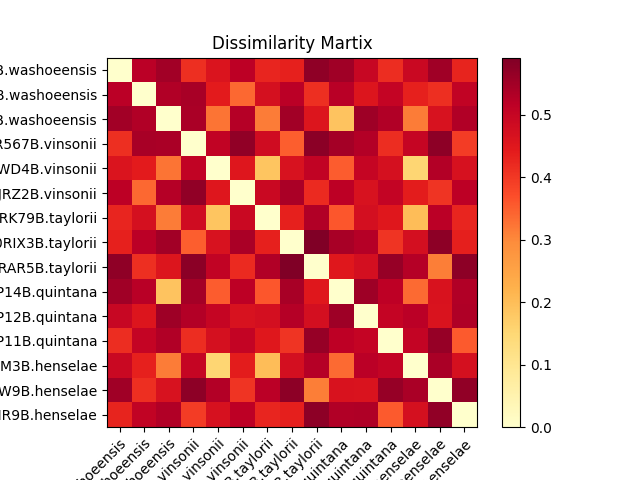
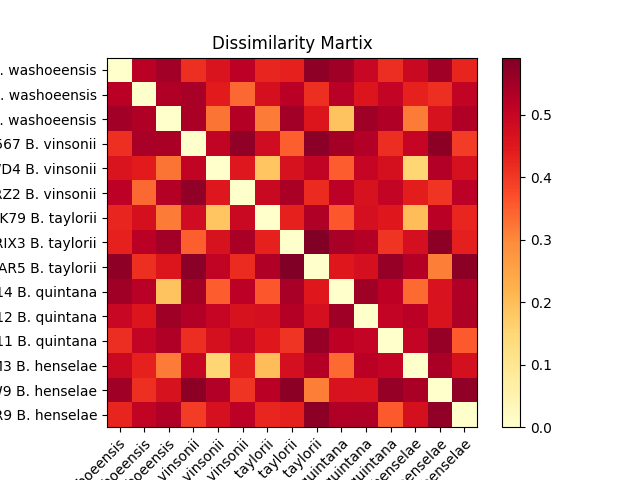
Managed import issues, annonated step4

diff --git a/main_step4.py b/main_step4.py
@@ -1,5 +1,3 @@
-import sys
-
 from Project_Library import msa   # msa.pyc file was compiled with python3.10, so use this version to run the code
 from Project_Library import basic_seq_analysis as SeqAnalysis
 from Project_Library import embl_analysis as EMBL
@@ -11,69 +9,94 @@ from matplotlib import pyplot as plt
 from Bio import Phylo
 from io import StringIO
 
-path_to_prots = '../Output_Files/selected_proteins.fasta'
-path_to_msa_result = '../Output_Files/aligned_selected_proteins.fasta'
-path_to_score_matrix = '../Files_for_Project/blosum62.mat'
-path_to_alignment_score_plot = '../Output_Files/Alignement_score_plot_by_position.png'
-path_to_unordered_heatmap = '../Output_Files/Heatmap_for_unordered_sequences.png'
-path_to_tree = '../Output_Files/Tree.png'
-path_to_ordered_heatmap = '../Output_Files/Heatmap_for_ordered_sequences.png'
-path_to_embl_summary = "../Output_Files/Bartonella_embl_summary_usingLISTOFLISTS.txt"
+
+# path_to_score_matrix : str ; path to score (aka substitution) matrix
+path_to_score_matrix = './Files_for_Project/blosum62.mat'
+# path_to_embl_summary : str ; path to an embl summary (generated in step 2)
+path_to_embl_summary = "./Output_Files/Bartonella_embl_summary_usingLISTOFLISTS.txt"
+
+# path_to_prots : str ; path to fasta file with protein sequences to be analyzed
+path_to_prots = './Output_Files/selected_proteins.fasta'
+# path_to_msa_result : str ; path to msa result (to be saved or used directly)
+path_to_msa_result = './Output_Files/aligned_selected_proteins.fasta'
+
+# path_to_alignment_score_plot : str ; path to a plot of MSA score by position to be saved
+path_to_alignment_score_plot = './Output_Files/Alignement_score_plot_by_position.png'
+# path_to_unordered_heatmap : str ; path to a heatmap of unordered sequences to be saved
+path_to_unordered_heatmap = './Output_Files/Heatmap_for_unordered_sequences.png'
+# path_to_ordered_heatmap : str ; path to a heatmap of ordered sequences to be saved
+path_to_ordered_heatmap = './Output_Files/Heatmap_for_ordered_sequences.png'
+# path_to_tree : str ; path to a tree to be saved
+path_to_tree = './Output_Files/Tree.png'
+
 # Use once to save the alignment result, otherwise you're gonna wait for eternity...
 #MSA.write_msa_as_fasta(path_to_prots,path_to_score_matrix, path_to_msa_result)
 
+# MSA_dict : Dict[str:str] ;  dictionnary of MSA result {sequence ID : aligned sequence}
 MSA_dict = EMBL.read_fasta(path_to_msa_result)
+# Score_dict : Dict{(str,str):float} ; dictionary {(aminoacid1, aminoacid2):score}
 Score_dict = MSA.read_score_matrix(path_to_score_matrix)
 
+# overall_score : float ; overall MSA score
+# scores_by_pos : List[float] ; list of scores by position
 overall_score, scores_by_pos = MSA.dissimilarity_score(MSA_dict,Score_dict)
 print(f'BLOSUM62 Alignment Score:{overall_score}')   
 
 
 MSA.plot_alignment_score(scores_by_pos, 'BLOSUM62 Alignment Score', path_to_alignment_score_plot)
 
+# DistMat : List[List[float]] ; lower triangular half of a dissimilarity matrix (diagonal included)
+# seq_names : List[str] ; list of sequence names (header of the matrix)
 DistMat, seq_names = MSA.compute_dissimilarity_matrix(MSA_dict)
 
 # TODO: if I include species, they name is too long to be well represented on a tree/heatmap
-# modifies seq_names so that they contain species
+# Modifies seq_names so that they contain species
+
+# stream_r : stream ; input file stream 
 with open(path_to_embl_summary, 'r') as stream_r:
+        # line : str ; a read line
         for line in stream_r:
+                # i : int ; index of a sequence name
                 for i in range(len(seq_names)):
                         if seq_names[i] in line:
-                                seq_names[i] += 'B.' + line.split()[2]
+                                seq_names[i] += ' B. ' + line.split()[2]
 
 MSA.plot_dissimilarity_matrix_as_heatmap(DistMat, seq_names, path_to_unordered_heatmap)
 
+# tree : Dict{ str : Tuple(int, Tuple(str, float), Tuple(str, float) ) } ; tree as a 
+#        dictionary {parent : (weight, (child_i_name, dist_i), (child_j_name, dist_j))}
+# root_name : str ; name of the root node
 tree, root_name = UPGMA.get_tree_upgma(DistMat, seq_names)
 
+# ordered_seq_names : List[str] ; list of sequence names ordered by their position in the paranthesized form of tree
+# newik_format : str ; tree represented in a newik (paranthesized) format
 ordered_seq_names = UPGMA.get_ordered_names_from_tree(tree, root_name)
 newik_format = UPGMA.convert_tree_from_dict_to_newik(tree, root_name)
 
+# OrderedDistMat : List[List[int]]; a lower triangular half of new dissimilarity matrix (diagonal included),
+#                  where elements are reordered according to the new header
 OrderedDistMat = MSA.reorder_dissimilarity_matrix(DistMat, seq_names, ordered_seq_names)
 MSA.plot_dissimilarity_matrix_as_heatmap(OrderedDistMat, ordered_seq_names, path_to_ordered_heatmap)
 
-# Build a tree with BioPython Module
+# Draw a tree with BioPython Module
+# handle : StringIO object
 handle = StringIO(newik_format)
+# tree_to_build : Bio.Phylo.Newick.Tree object
 tree_to_build = Phylo.read(handle, "newick")
 Phylo.draw(tree_to_build, do_show=False)
 plt.savefig(path_to_tree)
 
 ###### DEBUGGING #####
 
-if False:
+if True:
     DEFT_SEQ = {
             'SeqA': 'MSAGAEKQDRWIALHG',
             'SeqB': 'MSNGAEQERWIALVDHG',
             'SeqC': 'MSNAKGERLALVCHG',
             'SeqD': 'MSAVHKQDRLALVDIG' }
 
-    ProtSeqs = EMBL.read_fasta(path_to_prots)
+    MSA_score, MSA_seqs = msa.star_align(DEFT_SEQ, Score_dict)
+    my_score_list = MSA.dissimilarity_score(MSA_seqs ,Score_dict)[1]
 
-    MSA_score, MSA_seqs = msa.star_align(ProtSeqs, Score_dict)
-    my_score = MSA.dissimilarity_score(MSA_seqs ,Score_dict)[0]
-
-    print(f'Good score:{MSA_score}')
-    print(f'My score:{my_score}')
-
-    print(MSA_seqs)
-    print('=====================================')
-    print(MSA_dict)
+    print(my_score_list)
+    

diff --git a/Project_Library/msa_analysis.py b/Project_Library/msa_analysis.py
@@ -1,3 +1,6 @@
+import sys
+sys.path.append('Project_library')
+
 from matplotlib import pyplot as plt
 from copy import deepcopy
 import embl_analysis as EMBL
@@ -143,6 +146,7 @@ def compute_dissimilarity_matrix(MSA_dict):
     Assumtion: MSA_dict contains same sized aligned porotein sequences as values
     Note: positions with indels don't count for a total number of positions
     Returns a lower triangular half of a dissimilarity matrix (diagonal included)
+    and a list of sequence names (header of the matrix)
     '''
     # seq_names : List[str] ; a header of dissimilarity table with sequence names
     seq_names = []

diff --git a/main_step2-3.py b/main_step2-3.py
@@ -1,4 +1,3 @@
-import sys
 from Project_Library import embl_analysis as EMBL
 from Project_Library import basic_seq_analysis as SeqAnalysis
 
@@ -50,6 +49,7 @@ with open(path_to_gencode) as streamr:
             # codon, aa : str ; codon and aminoacid read from genetic code file
             codon, aa = line.split()
             gencode[codon]=aa
+            
 # ProtSeqs : dict[str:str] ; dictionary {UniProtID : Protein sequence}
 ProtSeqs = {}
 # uniprot : str ; UniProtID, a key of CDSs dictionary

diff --git a/Project_Library/upgma.py b/Project_Library/upgma.py
@@ -1,4 +1,7 @@
-import msa_analysis as MSA
+import sys
+sys.path.append('Project_library')
+
+from Project_Library import msa_analysis as MSA
 from copy import deepcopy
 
 def closest_nodes(DistMat):

diff --git a/Project_Library/embl_analysis.py b/Project_Library/embl_analysis.py
@@ -1,3 +1,6 @@
+import sys
+sys.path.append('Project_library')
+
 import re
 import basic_seq_analysis
 
